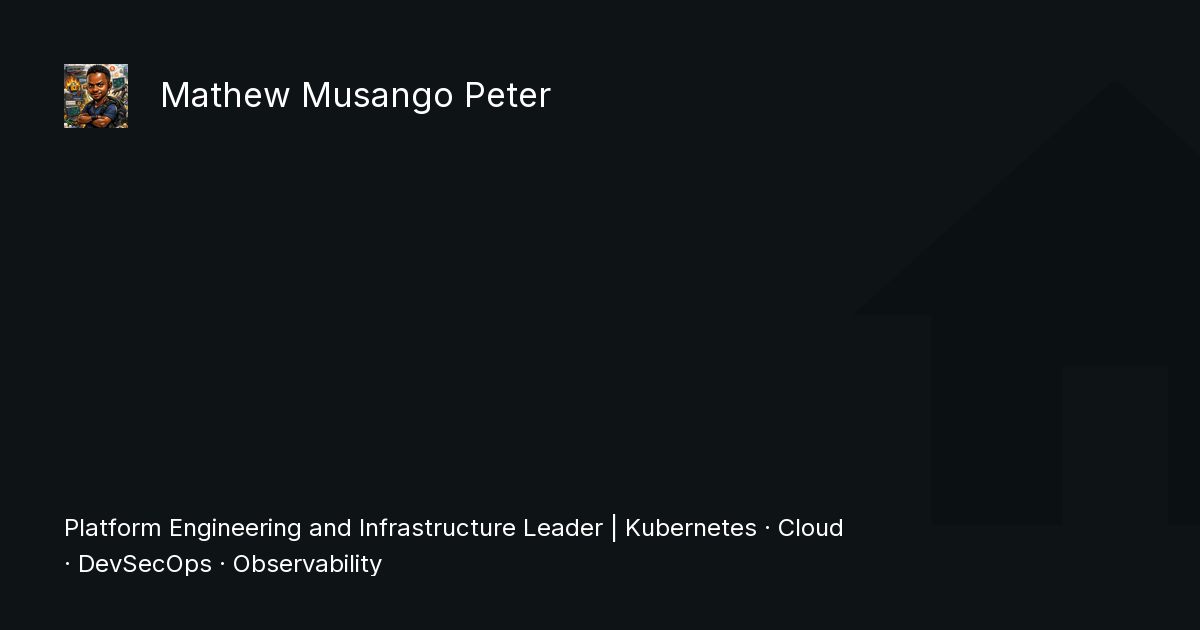
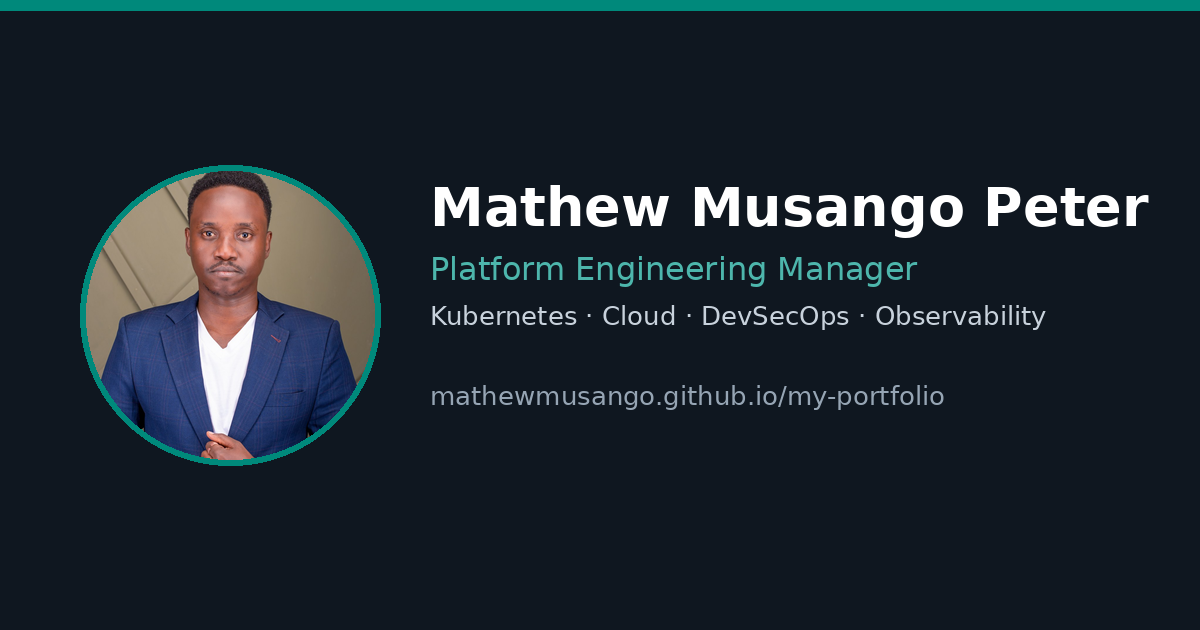
content: hero line, new OG card and the Emuplane console screenshot (#342) (#343)

diff --git a/docs/stylesheets/extra.css b/docs/stylesheets/extra.css
@@ -39,6 +39,16 @@ h1, h2, h3, h4, h5, h6 {
   color: var(--md-default-fg-color);
 }
 
+.hero-current {
+  margin-top: 0.6rem;
+  font-size: 0.85rem;
+  color: var(--md-default-fg-color--light);
+}
+
+.hero-current a {
+  font-weight: 600;
+}
+
 /* Light-gray page background, like the reference template */
 [data-md-color-scheme="default"] {
   --md-default-bg-color: #f8f9fa;

diff --git a/docs/es/index.md b/docs/es/index.md
@@ -13,7 +13,9 @@ icon: material/home
 
 # Mathew Musango Peter
 
-<p class="hero-badges"><span class="chip">Platform Engineering</span><span class="chip">Cloud Native</span><span class="chip">Kubernetes</span><span class="chip">DevSecOps</span><span class="chip">Site Reliability</span><span class="chip">Observability</span><span class="chip">Automation</span><span class="chip">AI Engineering</span></p>
+<p class="hero-badges"><span class="chip">Platform Engineering</span><span class="chip">Cloud Native</span><span class="chip">Kubernetes</span><span class="chip">DevSecOps</span><span class="chip">Observability</span></p>
+
+<p class="hero-current">Actualmente construyendo <a href="projects/open-source-emuplane/">Emuplane</a> — un plano de control de código abierto para emuladores de AWS.</p>
 
 <p class="hero-meta">
   <span class="hero-meta__item"><svg xmlns="http://www.w3.org/2000/svg" viewBox="0 0 24 24"><path d="M12 11.5A2.5 2.5 0 0 1 9.5 9 2.5 2.5 0 0 1 12 6.5 2.5 2.5 0 0 1 14.5 9a2.5 2.5 0 0 1-2.5 2.5M12 2a7 7 0 0 0-7 7c0 5.25 7 13 7 13s7-7.75 7-13a7 7 0 0 0-7-7"/></svg>Nairobi, Kenia</span>

diff --git a/docs/zh/index.md b/docs/zh/index.md
@@ -13,7 +13,9 @@ icon: material/home
 
 # Mathew Musango Peter
 
-<p class="hero-badges"><span class="chip">Platform Engineering</span><span class="chip">Cloud Native</span><span class="chip">Kubernetes</span><span class="chip">DevSecOps</span><span class="chip">Site Reliability</span><span class="chip">Observability</span><span class="chip">Automation</span><span class="chip">AI Engineering</span></p>
+<p class="hero-badges"><span class="chip">Platform Engineering</span><span class="chip">Cloud Native</span><span class="chip">Kubernetes</span><span class="chip">DevSecOps</span><span class="chip">Observability</span></p>
+
+<p class="hero-current">目前正在构建 <a href="projects/open-source-emuplane/">Emuplane</a> —— 面向 AWS 模拟器的开源控制平面。</p>
 
 <p class="hero-meta">
   <span class="hero-meta__item"><svg xmlns="http://www.w3.org/2000/svg" viewBox="0 0 24 24"><path d="M12 11.5A2.5 2.5 0 0 1 9.5 9 2.5 2.5 0 0 1 12 6.5 2.5 2.5 0 0 1 14.5 9a2.5 2.5 0 0 1-2.5 2.5M12 2a7 7 0 0 0-7 7c0 5.25 7 13 7 13s7-7.75 7-13a7 7 0 0 0-7-7"/></svg>内罗毕，肯尼亚</span>

diff --git a/docs/en/index.md b/docs/en/index.md
@@ -13,7 +13,9 @@ icon: material/home
 
 # Mathew Musango Peter
 
-<p class="hero-badges"><span class="chip">Platform Engineering</span><span class="chip">Cloud Native</span><span class="chip">Kubernetes</span><span class="chip">DevSecOps</span><span class="chip">Site Reliability</span><span class="chip">Observability</span><span class="chip">Automation</span><span class="chip">AI Engineering</span></p>
+<p class="hero-badges"><span class="chip">Platform Engineering</span><span class="chip">Cloud Native</span><span class="chip">Kubernetes</span><span class="chip">DevSecOps</span><span class="chip">Observability</span></p>
+
+<p class="hero-current">Currently building <a href="projects/open-source-emuplane/">Emuplane</a> — an open-source control plane for AWS emulators.</p>
 
 <p class="hero-meta">
   <span class="hero-meta__item"><svg xmlns="http://www.w3.org/2000/svg" viewBox="0 0 24 24"><path d="M12 11.5A2.5 2.5 0 0 1 9.5 9 2.5 2.5 0 0 1 12 6.5 2.5 2.5 0 0 1 14.5 9a2.5 2.5 0 0 1-2.5 2.5M12 2a7 7 0 0 0-7 7c0 5.25 7 13 7 13s7-7.75 7-13a7 7 0 0 0-7-7"/></svg>Nairobi, Kenya</span>

diff --git a/docs/zh/projects/open-source-emuplane.md b/docs/zh/projects/open-source-emuplane.md
@@ -25,6 +25,9 @@ AWS 模拟器能让一名开发者的笔记本用起来像 AWS，却不能让它
 - **镜像：** [`ghcr.io/mathewmusango/emuplane`](https://github.com/mathewmusango/emuplane/pkgs/container/emuplane)
 - **许可证：** [MIT](https://github.com/mathewmusango/emuplane/blob/main/LICENSE)
 
+![Emuplane 控制台](../../assets/img/emuplane-console.png){ loading=lazy }
+*登录后的 Emuplane 控制台 —— 服务菜单，基于 AWS Cloudscape 构建。*
+
 ## 为什么模拟器需要一个控制平面？
 
 本地模拟器确实有用：不用 AWS 账户、不产生账单，就能把 S3、IAM 或 DynamoDB 放进

diff --git a/docs/es/projects/open-source-emuplane.md b/docs/es/projects/open-source-emuplane.md
@@ -30,6 +30,9 @@ sean reales, y compartidos.
 - **La imagen:** [`ghcr.io/mathewmusango/emuplane`](https://github.com/mathewmusango/emuplane/pkgs/container/emuplane)
 - **La licencia:** [MIT](https://github.com/mathewmusango/emuplane/blob/main/LICENSE)
 
+![La consola de Emuplane](../../assets/img/emuplane-console.png){ loading=lazy }
+*La consola de Emuplane tras iniciar sesión — el menú de servicios, construido sobre AWS Cloudscape.*
+
 ## ¿Por qué un emulador necesita un plano de control?
 
 Los emuladores locales son genuinamente útiles: ponen S3, IAM o DynamoDB en el

diff --git a/docs/en/projects/open-source-emuplane.md b/docs/en/projects/open-source-emuplane.md
@@ -28,6 +28,9 @@ requests are all real, and shared.
 - **The image:** [`ghcr.io/mathewmusango/emuplane`](https://github.com/mathewmusango/emuplane/pkgs/container/emuplane)
 - **The licence:** [MIT](https://github.com/mathewmusango/emuplane/blob/main/LICENSE)
 
+![The Emuplane console](../../assets/img/emuplane-console.png){ loading=lazy }
+*The Emuplane console after sign-in — the services menu, built on AWS Cloudscape.*
+
 ## Why an emulator needs a control plane
 
 Local emulators are genuinely useful: they make S3, IAM, or DynamoDB available
